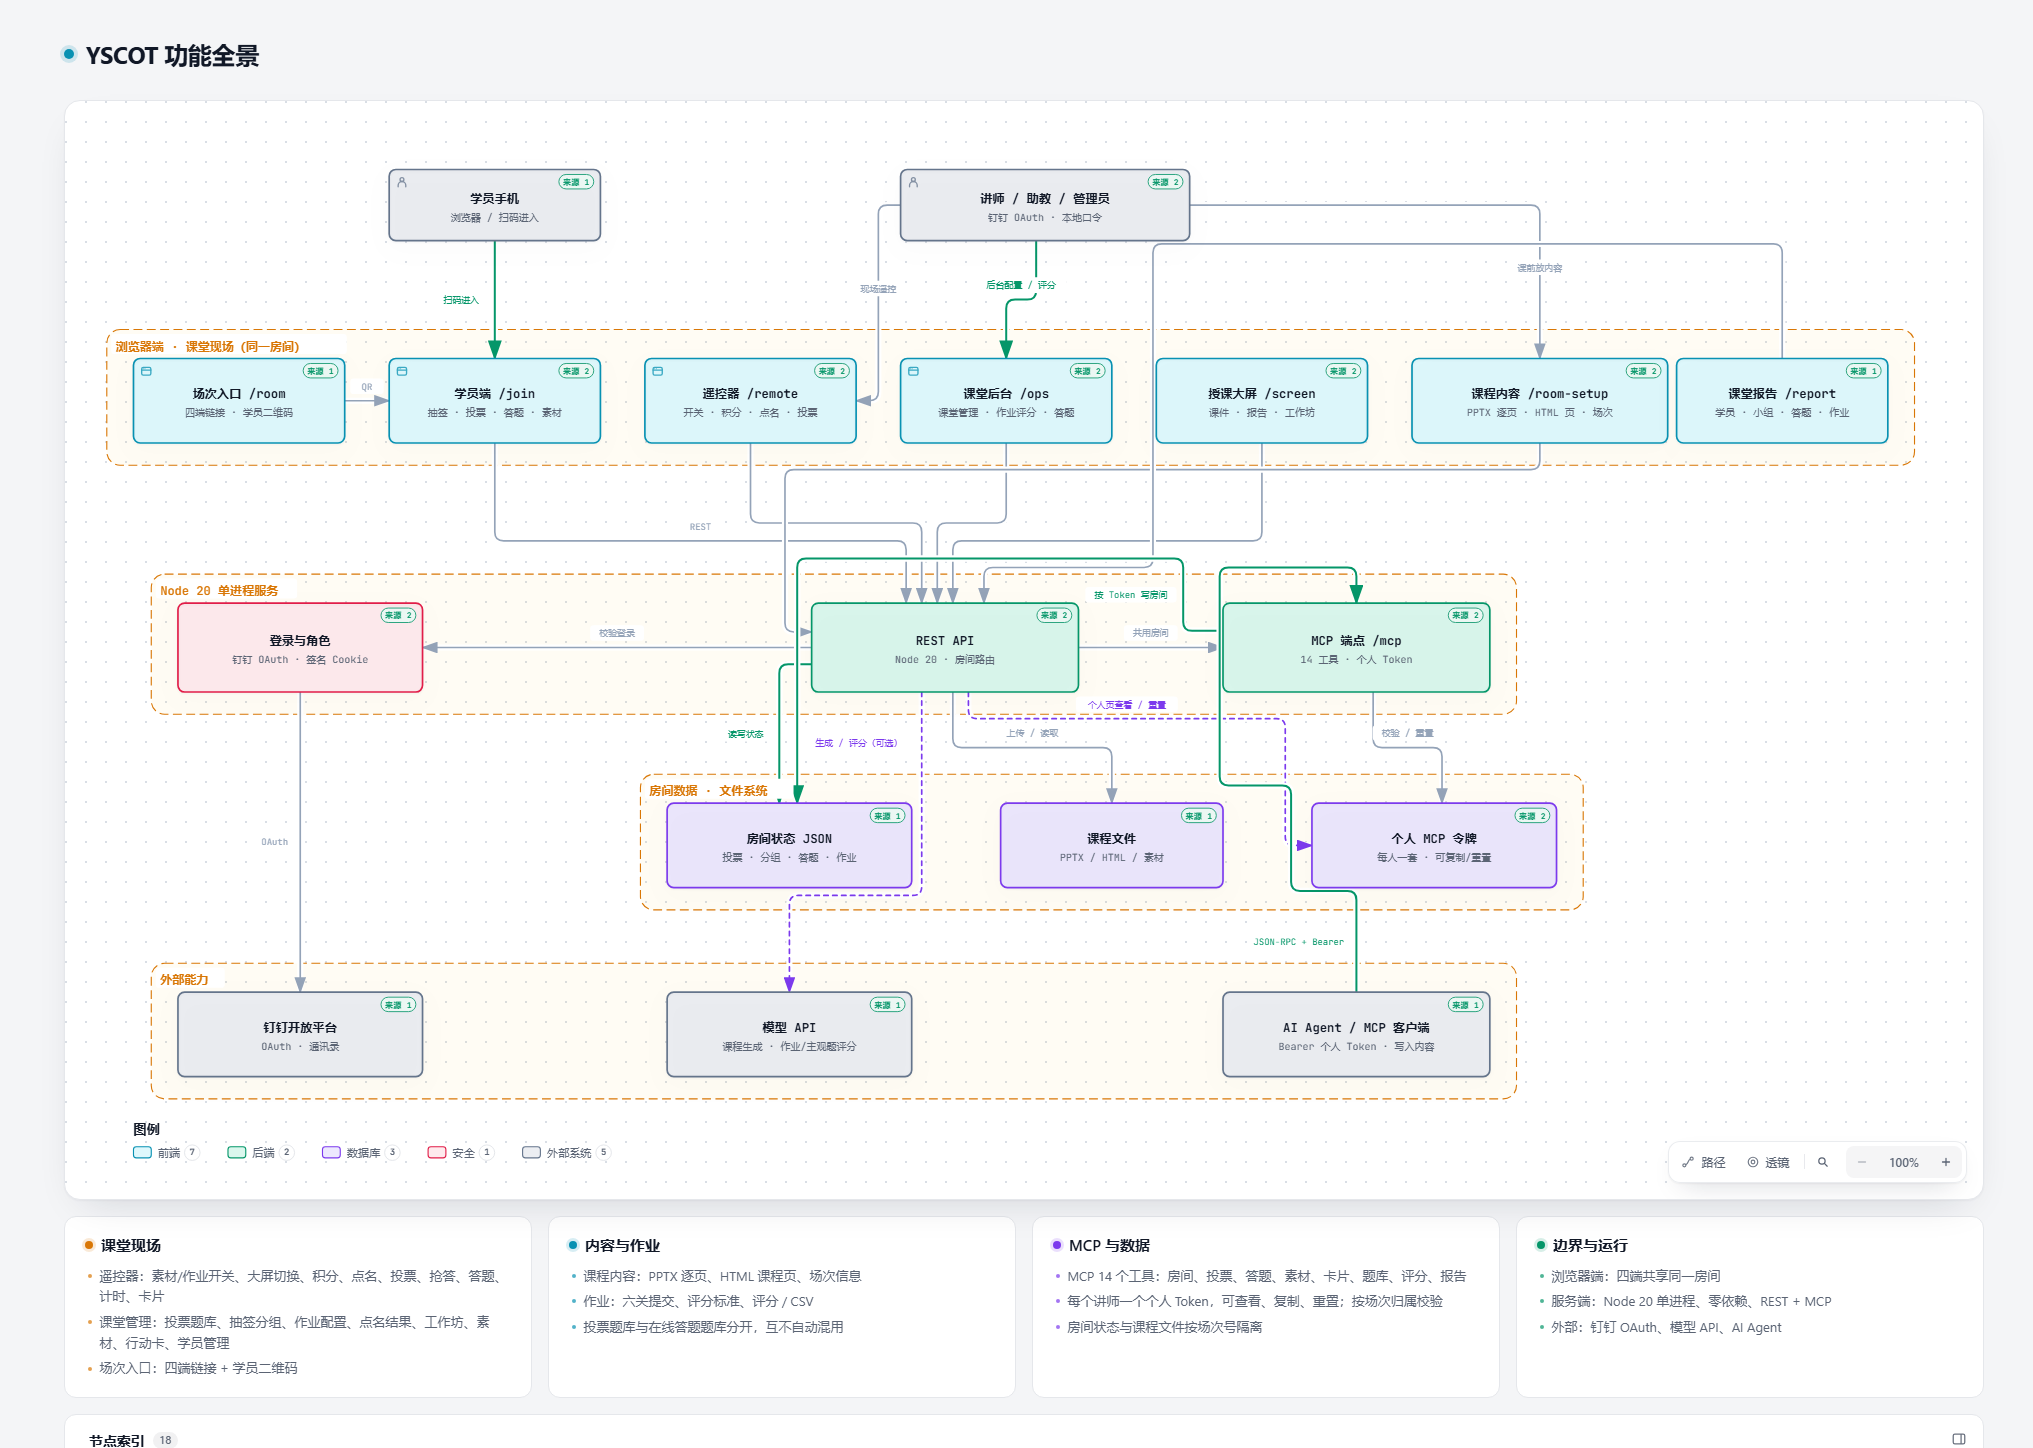
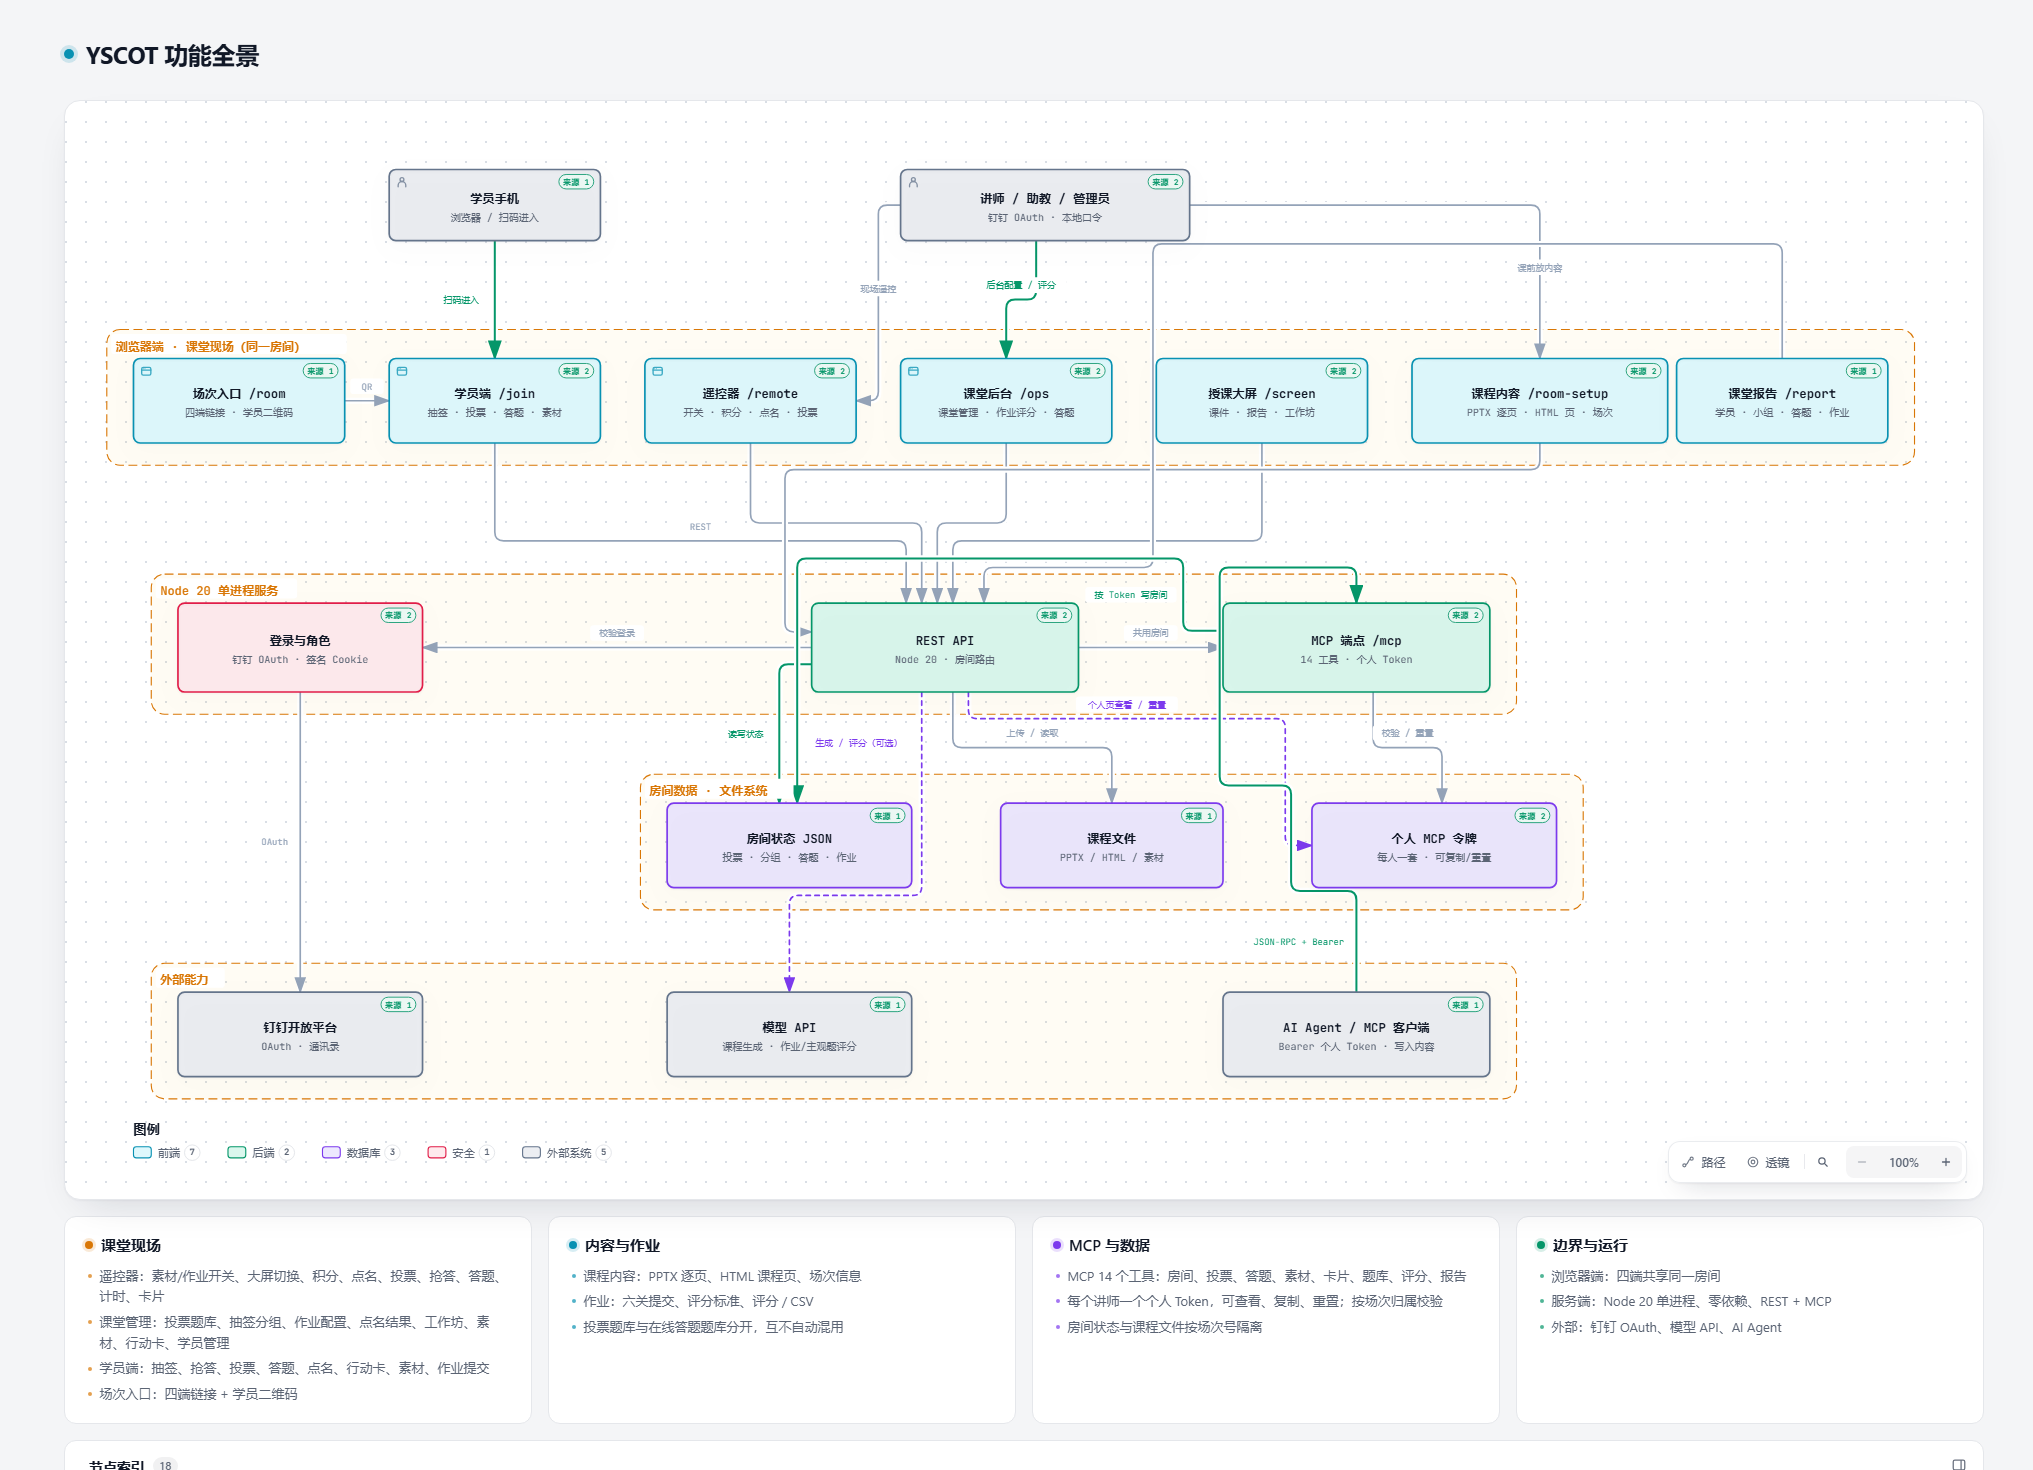
docs: 架构图补学员端功能卡

diff --git a/templates/architecture.html b/templates/architecture.html
@@ -5612,6 +5612,7 @@ OTHER DEALINGS IN THE FONT SOFTWARE.
         <ul>
           <li>遥控器：素材/作业开关、大屏切换、积分、点名、投票、抢答、答题、计时、卡片</li>
           <li>课堂管理：投票题库、抽签分组、作业配置、点名结果、工作坊、素材、行动卡、学员管理</li>
+          <li>学员端：抽签、抢答、投票、答题、点名、行动卡、素材、作业提交</li>
           <li>场次入口：四端链接 + 学员二维码</li>
         </ul>
       </div>
